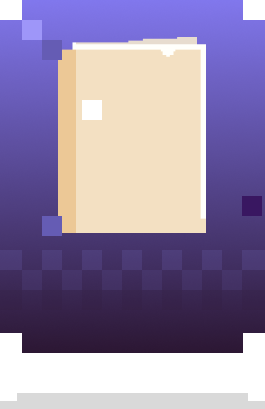
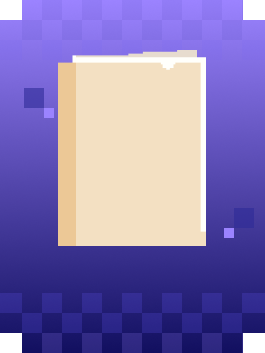
redesign : 메인홈 - 개발노트컴포넌트 아이템 재디자인

diff --git a/Components/Home/DevelopNote/DevelopNoteItem.tsx b/Components/Home/DevelopNote/DevelopNoteItem.tsx
@@ -1,20 +1,23 @@
 import board from "@/public/home/developnote-title-bg.png";
 import tempimg from "@/public/home/temp/image 39.png";
+import footerImg from   "@/public/home/developnote-title-footer.png";
 import Image from "next/image";
 
 export default function DevelopNoteItem() {
     const title = "던전에 어서와";
     const developNote_weekNum = "1";
     return (
-        <div>
-            <button className=" w-64 relative z-0 overflow-hidden">
-                <Image src={board} alt="" className="w-full h-full object-cover" />
-                <Image src={tempimg} alt="" className="relative z-1 bottom-[20rem] left-[5.5rem] w-24 h-32 border-2 border-white" />
-                <div className="absolute bottom-[13rem] left-[1rem]">
-                    <p className="text-2xl font-bold text-white">{title}</p>
-                    <p className="bg-[#583B6A] text-[#D0CCFF] font-semibold text-sm text-left px-2 py-1 my-2 w-fit rounded">{developNote_weekNum}주차 개발노트</p>
+        <div className ="relative z-0">
+ 
+            <button className="w-52 relative z-2">
+                <Image src={board} alt="" className="w-52 object-cover" />
+                <Image src={tempimg} alt="" className="absolute z-1 bottom-[6.5rem] left-[4.3rem] w-20 h-28 border-1 border-white" />
+                <div className="absolute bottom-[1.5rem] left-[1.5rem]">
+                    <p className="text-lg font-bold text-white">{title}</p>
+                    <p className="bg-[#583B6A] text-[#D0CCFF] font-semibold text-[0.5rem] text-left px-2 py-1 w-fit rounded">{developNote_weekNum}주차 개발노트</p>
                 </div>
             </button>
+            <Image src={footerImg} alt ="none" className ="absolute z-0 bottom-1"/>
         </div>
     );
 }

diff --git a/Components/Home/DevelopNote/DevelopNoteList.tsx b/Components/Home/DevelopNote/DevelopNoteList.tsx
@@ -2,7 +2,7 @@ import board from "@/public/home/developnote-title-bg.png";
 import DevelopNoteItem from "./DevelopNoteItem";
 
 export default function DevelopNoteList() {
-    const projectlist = [null, null, null, null, null, null];
+    const projectlist = [null, null, null, null];
     return (
         <div>
             <div className="flex my-4 gap-4">
